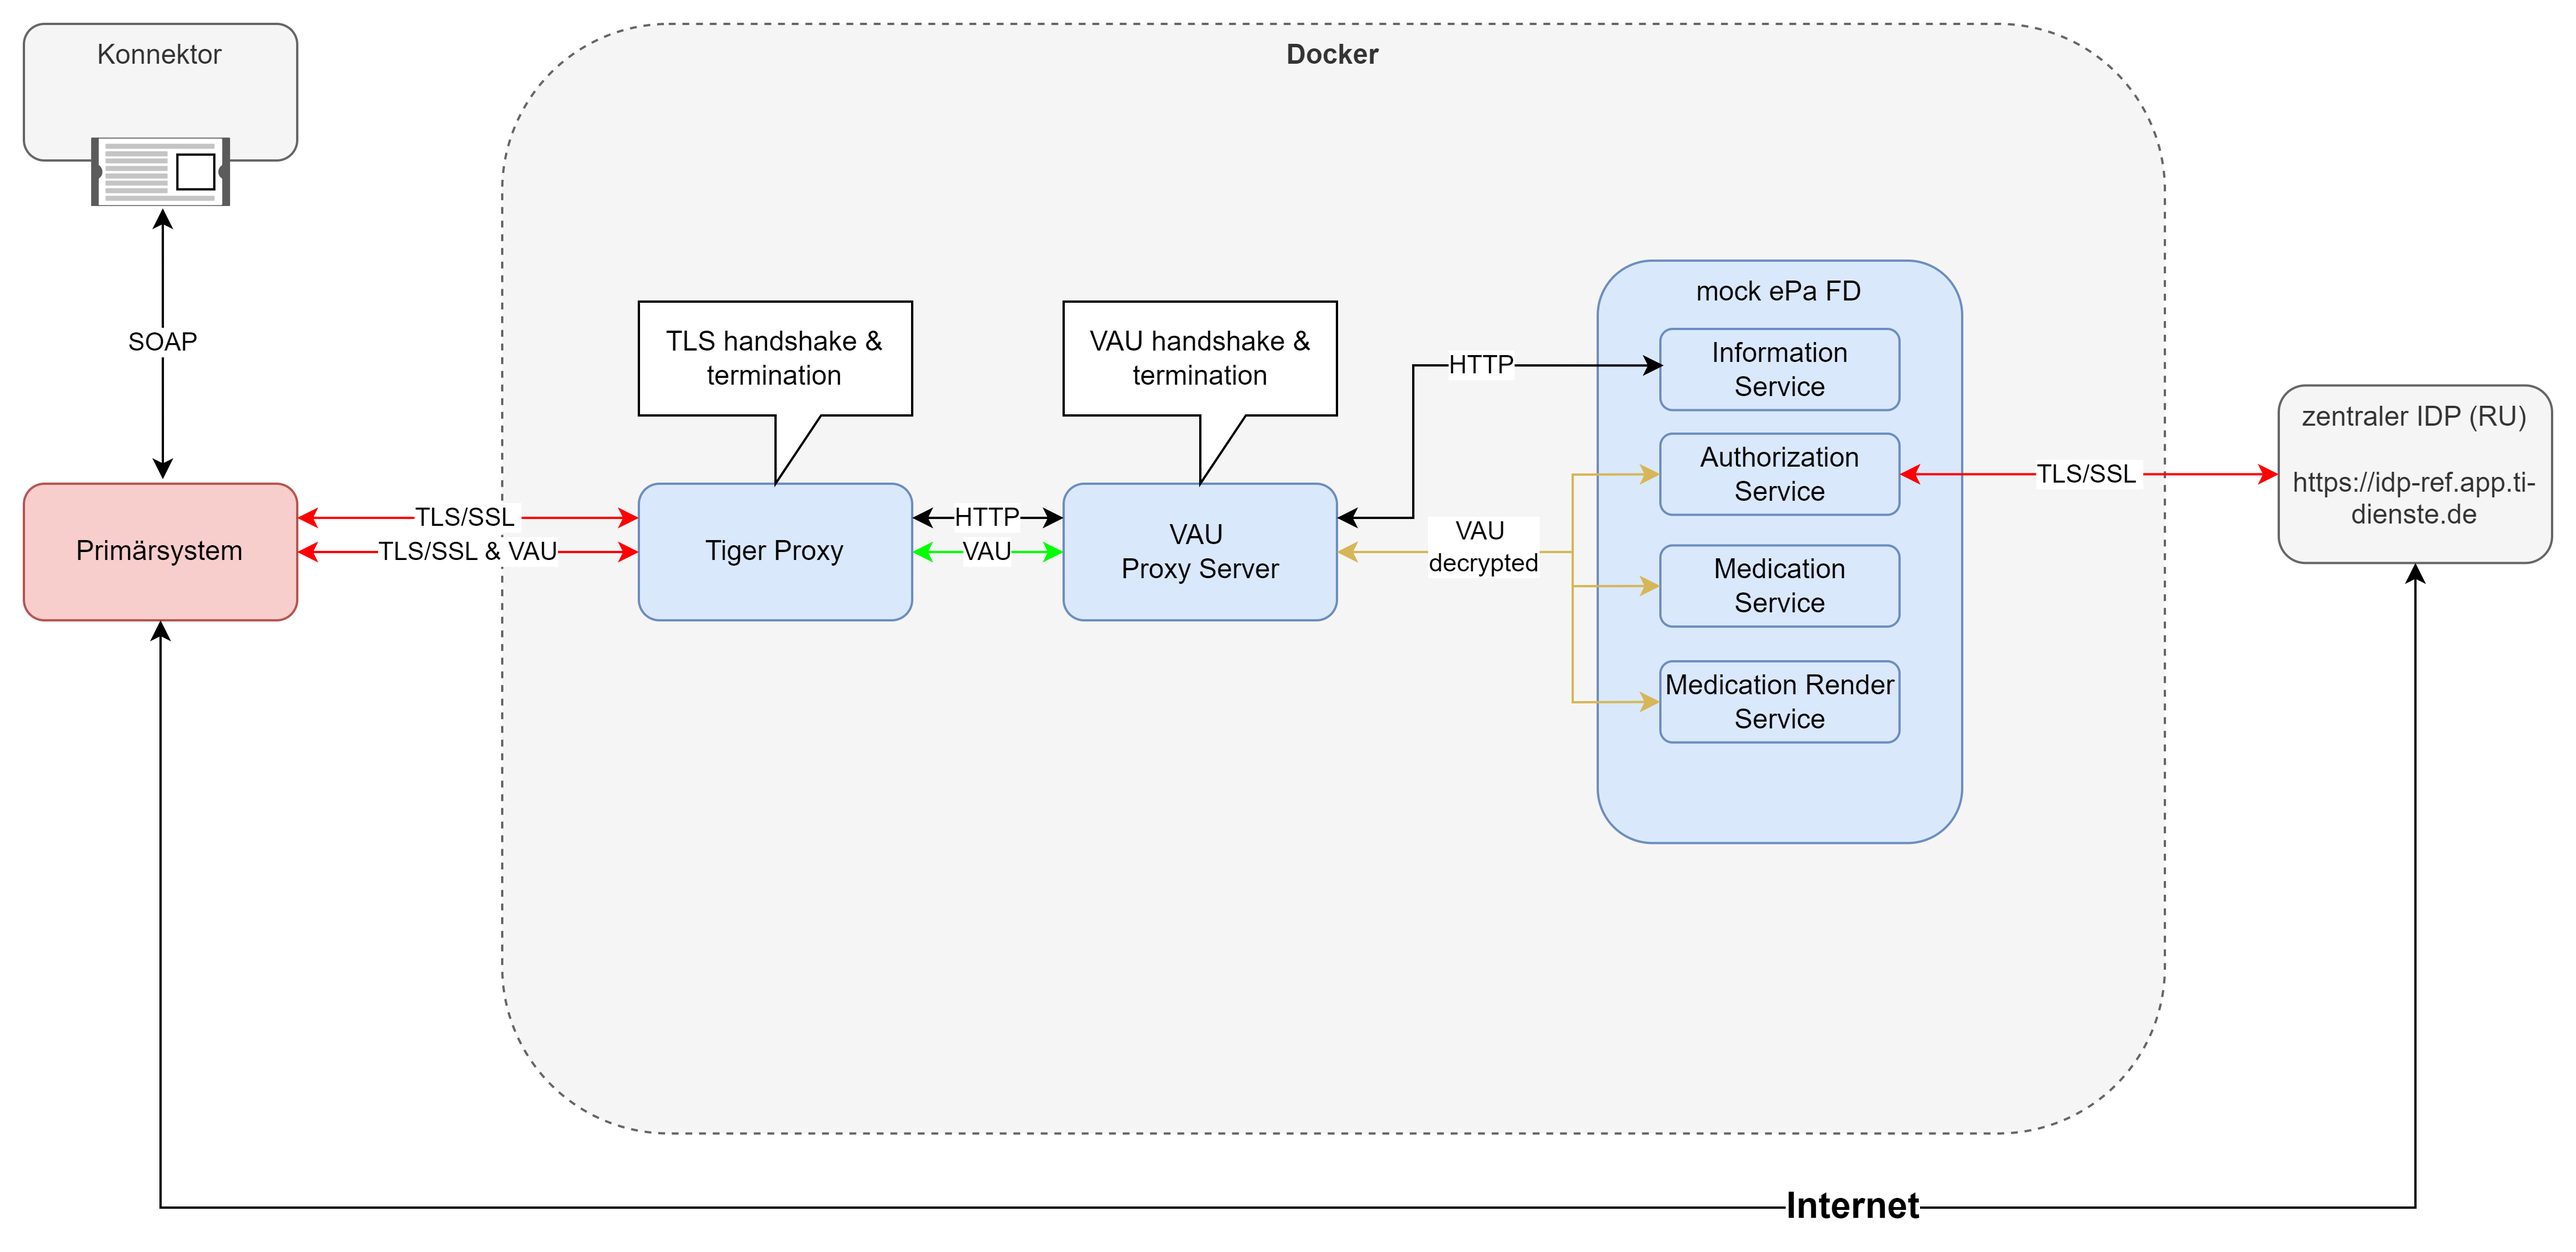
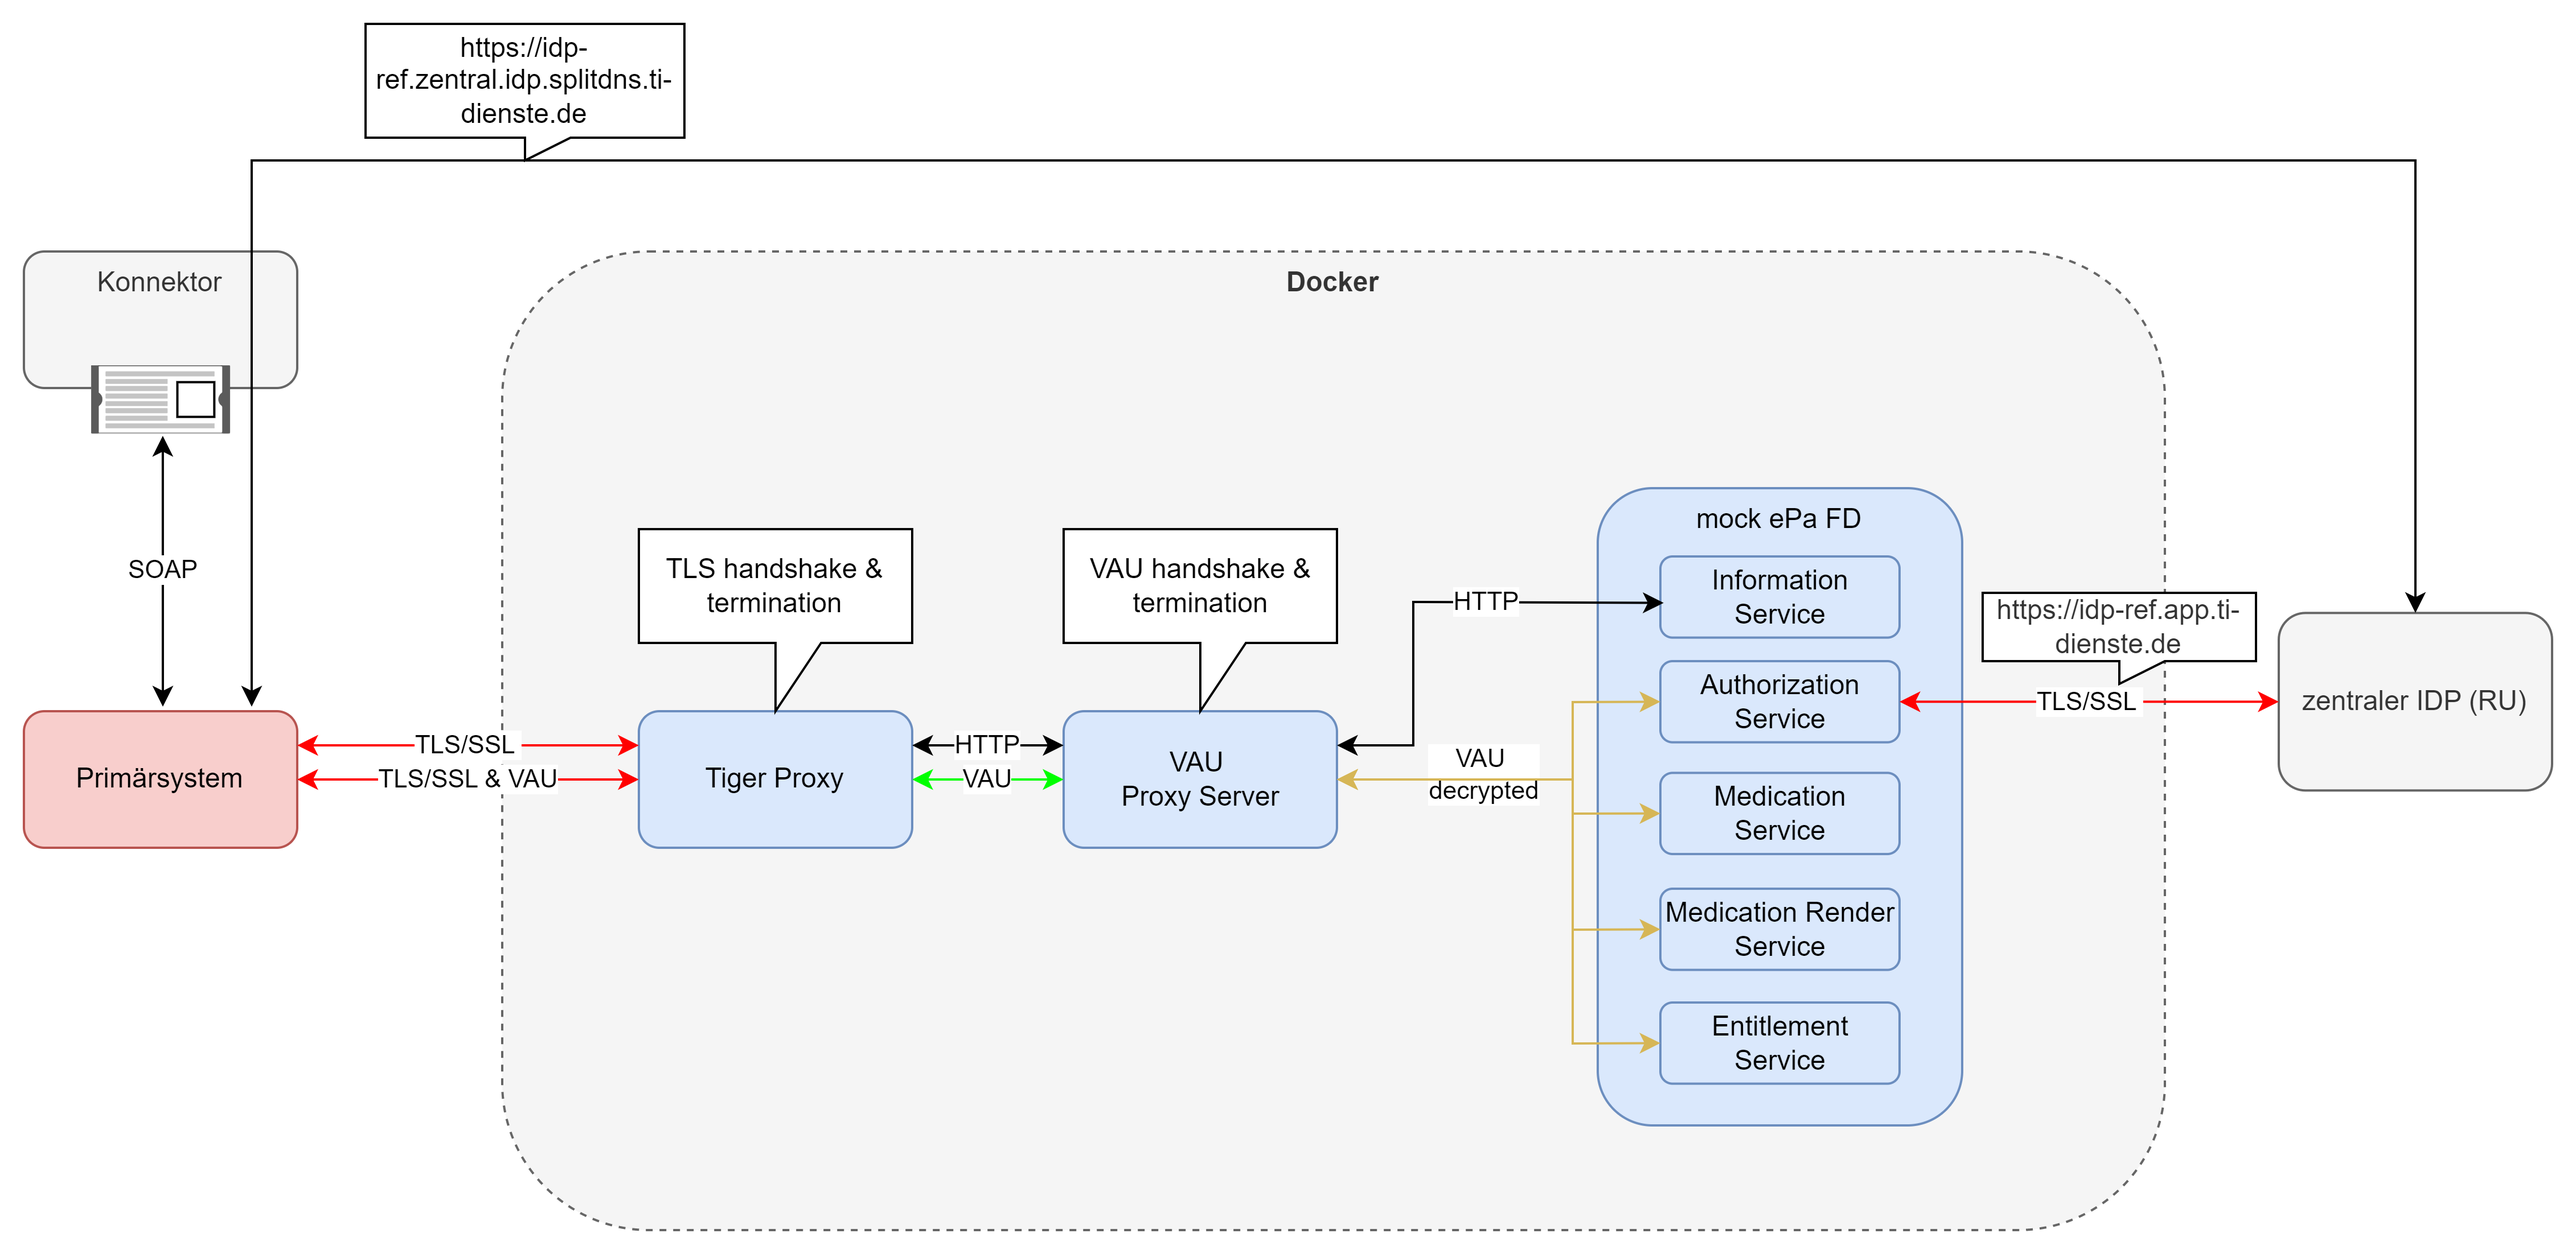
deployment-1.0.3

diff --git a/README.md b/README.md
@@ -1,96 +1,49 @@
 # ePA-deployment
 
-![epa-deployment.png](/doc/img/draw-io/epa-deployment.png)
+## Motivation
 
-### Project includes docker-compose and other relevant files to run all relevant mock services for ePA in a docker environment.
+The project is intended to provide a simple way to run the ePA backend services in a local docker environment and includes docker-compose and other relevant files. This should help to get a better understanding of the ePA services and should help to develop & test **ePA 3.0.x** for PS applications.
 
-#### Overview of the backend mock services
+> [!IMPORTANT]
+This project uses mock implementations based on the ePA specification and focuses on some selected backend services. The mock implementations try to realize many aspects of the specification, but are not 1:1 equivalent to a productive environment. The specification is always leading and should be used as a reference.
 
-##### Tiger Proxy (tiger-proxy)
+In particular, the following uses cases are covered:
+- Perform VAU handshake and send and receive encrypted data
+- Create a user session with the ePA authorization service and IDP (RU)
+- Create an entitlement **(not included yet)**
+- Get the medication list (eML) for a patient as XHTML and PDF/A document
 
-The tiger proxy is a reverse proxy which is used to route the incoming requests to the correct service. It is accessible via port 443 as it is using TLS/SSL. The proxy is also doing the SSL termination for the services. The configuration of the proxy is done in the `/tiger-proxy/application.yaml` file.
+## Setup
 
-**Limitations**:
+### Prerequisites
 
-* server certificate is generated on-the-fly using the `/tiger-proxy/ca.p12` as authority chain
-* OCSP stabling is currently not supported
+You the following tools to run the services:
 
-##### VAU Proxy Server (vau-proxy-server)
+- [Git](https://git-scm.com/)
+- [Docker](https://www.docker.com/products/docker-desktop/)
+- [Docker Compose](https://docs.docker.com/compose/install/)
+- [Curl](https://curl.se/)
 
-By specification some services inside the ePA has to be encrypted/decrypted by the VAU. The VAU Proxy Client handles the VAU handshake for a given PS instance. This handshake enables the VAU Proxy Client to encrypt messages which can be decrypted by the VAU Proxy Server before the messages are passed onto ePA services.
+You need the following system resources to run the services:
 
-**Limitations**:
+- at least 4 GB of RAM
+- the following ports should be available:
+  - for the ePA backend services **443** (https)
+  - port range to directly access the mock services via the exposed ports (**8081-8090**)
 
-* interface operation/path to request the status of user authentication is not supported (A_25143) > `/VAU-Status as HTTP-GET`
-* interface operation/path to request AUT-VAU certifcate + certifacate chain is not supported (A_24957) >  `/CertData as HTTP-GET`
+### Running the services with docker-compose
 
-##### Information Service (information-service)
-
-This service provides information about the health record of a patient. The capabilities of the service are described detailed in following openAPI specification: [InformationService](https://github.com/gematik/ePA-Basic/blob/ePA-3.0/src/openapi/I_Information_Service.yaml).
-
-**Limitations**:
-
-* for consent decisions it will always send "permit" for "medication" as well as "erp-submission"
-* for record status it will always send HTTP code 200 (OK)
-* false case for both operations:
-  * to get HTTP code 404 use insurantId "X000000404" as path parameter
-  * to get HTTP code 409 use insurantId "X000000409" as path parameter
-* for userexperience it is checked that the header x-useragent is set, otherwise HTTP code 409 is given
-
-##### Authorization Service (authorization-service)
-
-The authorization service is a component which is known from OAuth2.
-Together with the IDP server it is responsible for the authentication and authorization of the user (User of a PS).
-The authentication flow is described here: [Authentication Flow](https://gemspec.gematik.de/docs/gemILF/gemILF_PS_ePA/latest/#3.4.2).
-As IDP the reference IDP is used which is addressed by the following URL: [IDP](https://idp-ref.app.ti-dienste.de).
-All necessary configurations like clientID are already set in the IDP.
-
-**Limitations**:
-
-* it will not end user session after 20 Min. (A_25006)
-
-##### Medication Render Service (medication-render-service)
-
-The medication render service is responsible for rendering the medication list (eML) data in a human readable form.
-The service is described in the following openAPI specification: [MedicationRenderService](https://github.com/gematik/ePA-Medication/blob/ePA-3.0/src/openapi/I_Medication_Service_eML_Render.yaml).
-
-##### Medication Service (medication-service)
-
-The medication service is a HAPI FHIR server which provides the medication relevant data. The details about ePA Medication can be found in the related repository: [ePA-Medication](https://github.com/gematik/ePA-Medication/tree/ePA-3.0).
-
-#### Using the services
-
-The services can be accessed directly by using the exposed ports.
-The following table shows the services and the related ports and protocols.
-This should also give an overview of the ports to be opened in your setup.
-
-| Service                   | Port | Protocol   |
-| ------------------------- | ---- | ---------- |
-| tiger-proxy               | 443  | https      |
-| vau-proxy-server          | 8081 | http       |
-| information-service       | 8082 | http       |
-| authorization-service     | 8083 | http       |
-| medication-service        | 8084 | http       |
-| medication-render-service | 8085 | http       |
-| tiger-proxy (admin)       | 8086 | http       |
-
-#### Running the services
-
-Start the services with the following command
-
+Start the mock services with the following command
 ```bash
 docker-compose -f dc-mocks.yml up
 ```
 
 Stop these services with the following command
-
 ```bash
 docker-compose -f dc-mocks.yml down
 ```
 
-Accessing the services directly via the exposed ports.
-
-##### Medication Service
+### Importing default data to the Medication Service
 
 To import medications related data to the medication-service execute the following script from the medication folder:
 
@@ -99,65 +52,122 @@ cd medication
 ./import.sh
 ```
 
-After successful import the data can be accessed via the following curl commands:
+After successful import the data can be accessed via the following curl commands (placeholder <docker-host> have to be replaced with the actual host IP or name):
 
 ```bash
 curl --location http://<docker-host>:8084/fhir/Organization/1
-```
-
-```bash
 curl --location http://<docker-host>:8084/fhir/PractitionerRole/2
-```
-
-```bash
 curl --location http://<docker-host>:8084/fhir/Practitioner/3
-```
-
-```bash
 curl --location http://<docker-host>:8084/fhir/Patient/4
-```
-
-```bash
 curl --location http://<docker-host>:8084/fhir/Medication/5
-```
-
-```bash
 curl --location http://<docker-host>:8084/fhir/MedicationRequest/8
-```
-
-```bash
 curl --location http://<docker-host>:8084/fhir/MedicationDispense/13
 ```
 
-##### Medication Render Service
+## Overview of the backend mock services
 
-To retrieve the eML as XHTML execute the following curl command:
+### Using the services
 
-```bash
-curl --location --request GET http://<docker-host>:8085/epa/medication/render/v1/eml/xhtml --header 'Accept: text/html' --header 'x-insurantid: Z1234567891'
-```
+The services can be accessed directly by using the exposed ports.
+The following table shows the services and the related ports and protocols.
+This should also give an overview of the ports to be opened in your setup.
 
-To retrieve the same eML as PDF/A document execute the following curl command:
+| Service                   | Port | Protocol |
+|---------------------------|------|----------|
+| tiger-proxy               | 443  | https    |
+| vau-proxy-server          | 8081 | http     |
+| information-service       | 8082 | http     |
+| authorization-service     | 8083 | http     |
+| medication-service        | 8084 | http     |
+| medication-render-service | 8085 | http     |
+| tiger-proxy (admin)       | 8086 | http     |
 
-```bash
-curl --location --request GET http://<docker-host>:8085/epa/medication/render/v1/eml/pdf --header 'Accept: application/pdf' --header 'x-insurantid: Z1234567891' --output eml.pdf
-```
+![epa-deployment.png](/doc/img/draw-io/epa-deployment.png)
 
-##### Information Service
+> [!IMPORTANT]
+> Please use the already existing TI services through the connector e.g. to access the IDP (RU) using the following URL:
+> https://idp-ref.zentral.idp.splitdns.ti-dienste.de
+
+### Tiger Proxy (tiger-proxy)
+
+The tiger proxy is a reverse proxy which is used to route the incoming requests to the correct service. It is accessible via port 443 as it is using TLS/SSL. The proxy is also doing the SSL termination for the services. The configuration of the proxy is done in the `/tiger-proxy/application.yaml` file.
+
+#### Limitations:
+
+* server certificate is generated on-the-fly using the `/tiger-proxy/ca.p12` as authority chain
+* OCSP stabling is currently not supported
+
+### VAU Proxy Server (vau-proxy-server)
+
+By specification some services inside the ePA has to be encrypted/decrypted by the VAU. The VAU Proxy Client handles the VAU handshake for a given PS instance. This handshake enables the VAU Proxy Client to encrypt messages which can be decrypted by the VAU Proxy Server before the messages are passed onto ePA services.
+
+#### Limitations:
+
+* interface operation/path to request the status of user authentication is not fully supported (A_25143) > `/VAU-Status as HTTP-GET`
+  * "User-Authentication" is always "None"
+  * "Connnection-Start" is the timestamp when M3 message of VAU handshake was successfully validated & completed on backend side (typo in gemSpec_Krypt <= 2.32.0)
+* interface operation/path to request AUT-VAU certificate + certificate chain via /CertData as HTTP-GET is not fully supported (A_24957) *
+  * rch_chain uses certificates from https://download.tsl.ti-dienste.de as array content (> RCA5)
+
+### Information Service (information-service)
+
+This service provides information about the health record of a patient. The capabilities of the service are described detailed in following openAPI specification: [InformationService](https://github.com/gematik/ePA-Basic/blob/ePA-3.0/src/openapi/I_Information_Service.yaml).
+
+#### Limitations:
+
+* for consent decisions it will always send "permit" for "medication" as well as "erp-submission"
+* for record status it will always send HTTP code 200 (OK)
+* false case for both operations:
+  * to get HTTP code 404 use insurantId "X000000404" as path parameter
+  * to get HTTP code 409 use insurantId "X000000409" as path parameter
+* for user experience it is checked that the header x-useragent is set, otherwise HTTP code 409 is given
+
+#### Direct example request:
 
 To retrieve the consent decisions of a patient execute the following curl command:
-
 ```bash
 curl --location --request GET http://<docker-host>:8082/information/api/v1/ehr/Z1234567891/consentdecisions
 ```
 
 To retrieve the health record status of a patient execute the following curl command:
-
 ```bash
-curl --location --request GET 'http://<docker-host>:8082/information/api/v1/ehr/Z1234567891'
+curl --location --request GET http://<docker-host>:8082/information/api/v1/ehr/Z1234567891
 ```
 
-#### Resources
+### Authorization Service (authorization-service)
+
+The authorization service is a component which is known from OAuth2.
+Together with the IDP server it is responsible for the authentication and authorization of the user (User of a PS).
+The authentication flow is described here: [Authentication Flow](https://gemspec.gematik.de/docs/gemILF/gemILF_PS_ePA/latest/#3.4.2).
+As IDP the reference IDP is used which is addressed by the following URL: [https://idp-ref.app.ti-dienste.de](https://idp-ref.app.ti-dienste.de).
+All necessary configurations like clientID are already set in the IDP.
+
+#### Limitations:
+
+* it will not end user session after 20 Min. (A_25006)
+
+### Medication Service (medication-service)
+
+The medication service is a HAPI FHIR server which provides the medication relevant data. The details about ePA Medication can be found in the related repository: [ePA-Medication](https://github.com/gematik/ePA-Medication/tree/ePA-3.0).
+
+### Medication Render Service (medication-render-service)
+
+The medication render service is responsible for rendering the medication list (eML) data in a human-readable form.
+The service is described in the following openAPI specification: [MedicationRenderService](https://github.com/gematik/ePA-Medication/blob/ePA-3.0/src/openapi/I_Medication_Service_eML_Render.yaml).
+
+#### Direct example request:
+
+To retrieve the eML as XHTML execute the following curl command:
+```bash
+curl --location --request GET http://<docker-host>:8085/epa/medication/render/v1/eml/xhtml --header 'Accept: text/html' --header 'x-insurantid: Z1234567891'
+```
+
+To retrieve the same eML as PDF/A document execute the following curl command:
+```bash
+curl --location --request GET http://<docker-host>:8085/epa/medication/render/v1/eml/pdf --header 'Accept: application/pdf' --header 'x-insurantid: Z1234567891' --output eml.pdf
+```
+
+## Resources
 
 - [ePA Implementation Guide](https://gemspec.gematik.de/docs/gemILF/gemILF_PS_ePA/latest/index.html)
 - [ePA-Basic](https://github.com/gematik/ePA-Basic/tree/ePA-3.0.1)

diff --git a/ReleaseNotes.md b/ReleaseNotes.md
@@ -3,6 +3,13 @@
 # Release notes epa-deployment for ePA 3.x and above
 
 ## Release 1.0.2
+### fixed
+- Updated version of vau-proxy-server to 1.0.3
+  - updated to lib-vau 1.0.8
+  - replaced manual HTTP message handling with Netty library implementation
+- Documentation updates
+  - Added information about the required applications, ports & resources
+  - Added information about the supported use cases and restrictions
 
 ### fixed
 - Updated versions of mock services
